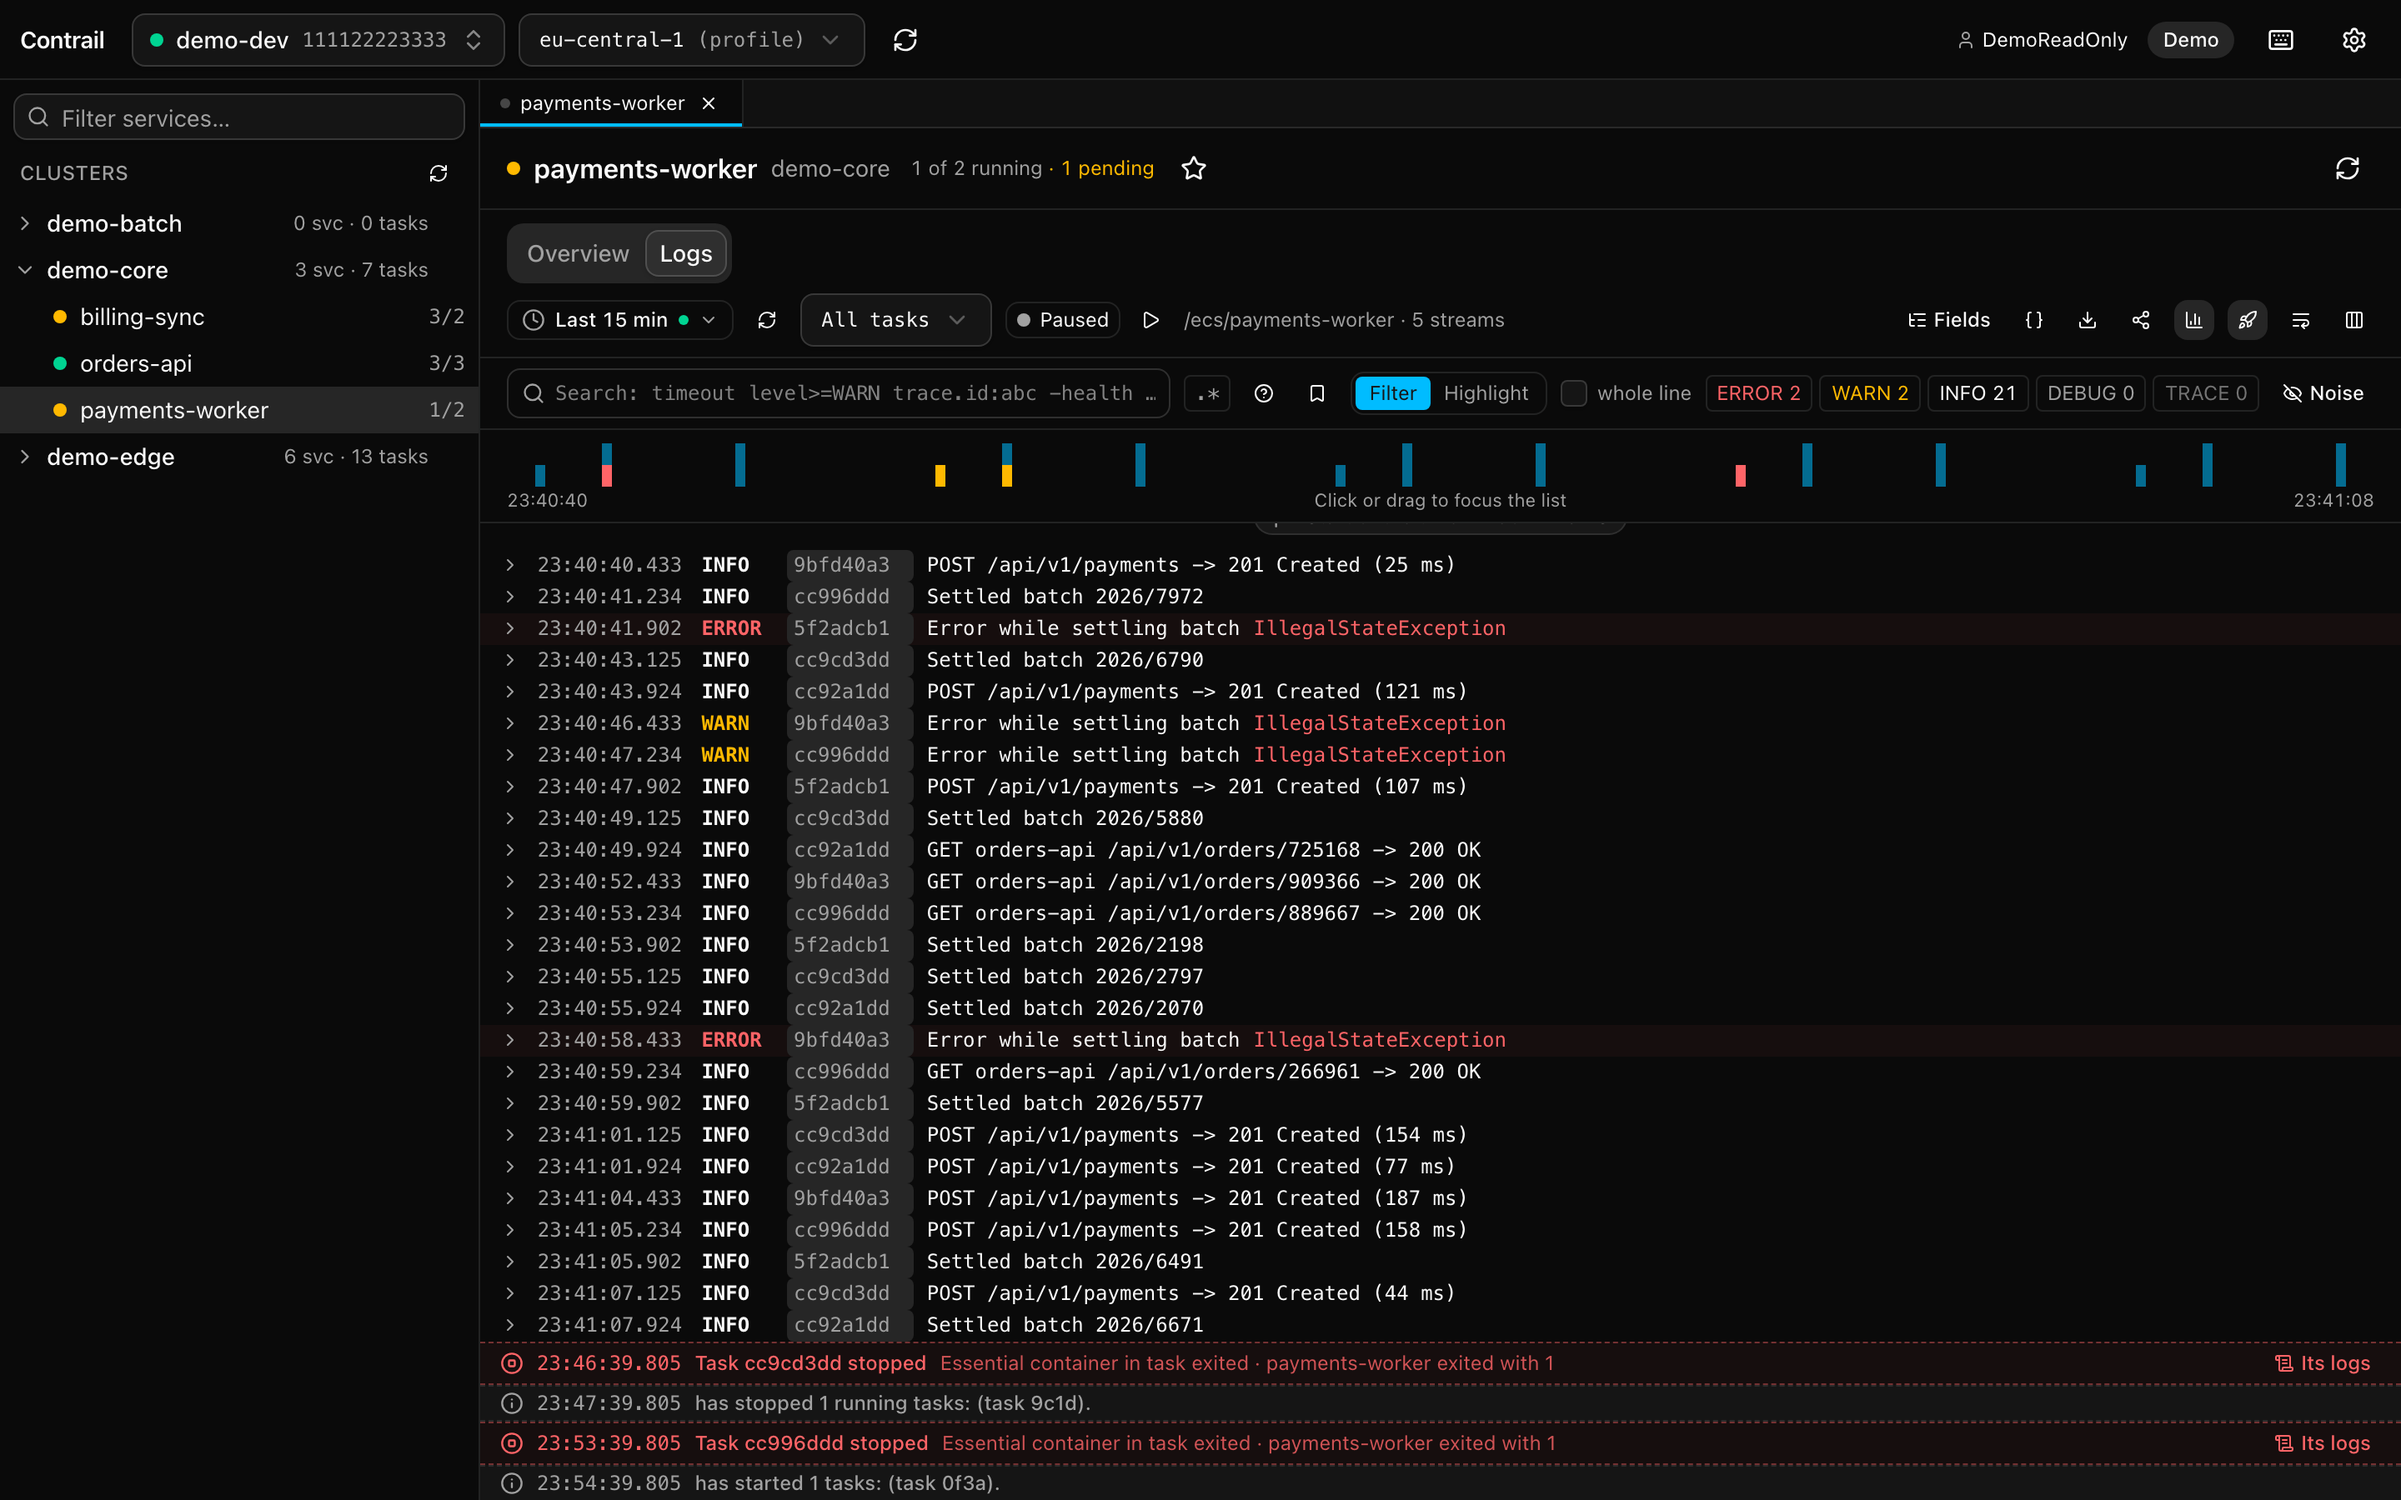
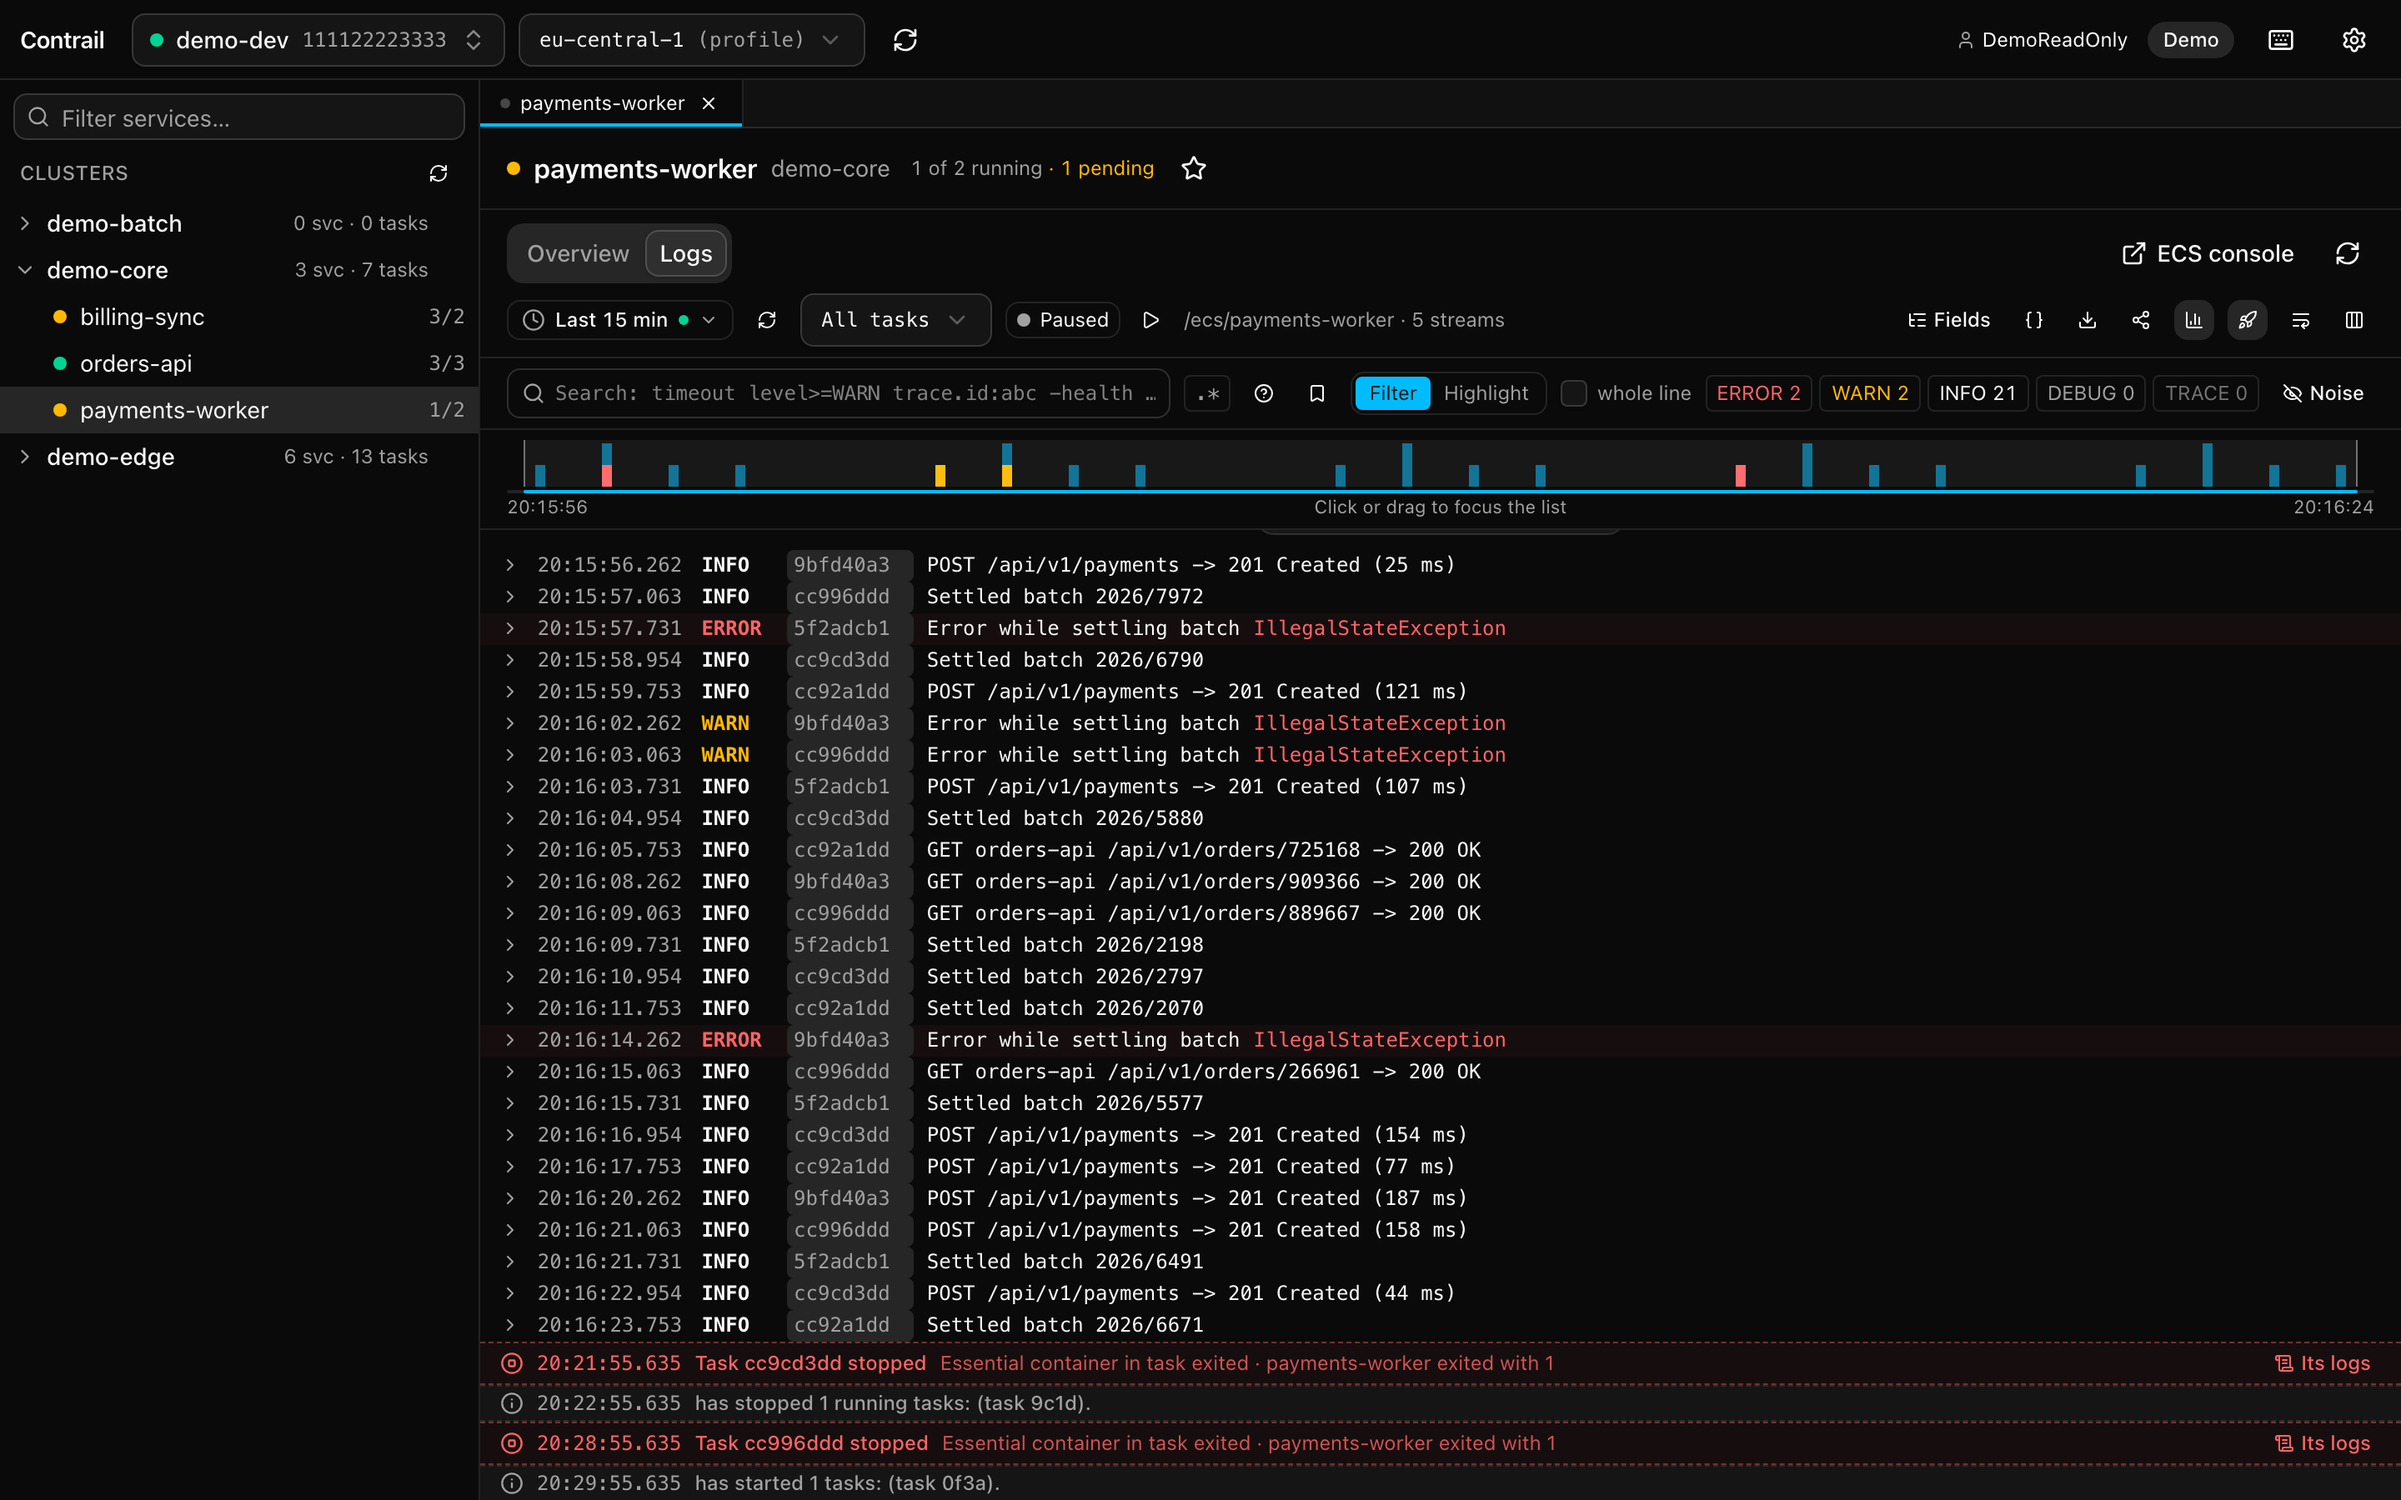
feat(ui): the service's actions beside its tabs
Update service, ECS console and refresh moved from the header to the row
of the Overview and Logs tabs: next to what they act on, and the header
is down to the service's name, cluster, counts and star. Site
screenshots refreshed.

diff --git a/app/ui/src/components/ecs/ServiceView.tsx b/app/ui/src/components/ecs/ServiceView.tsx
@@ -73,10 +73,14 @@ function ServicePane() {
         onValueChange={(value) => setTab(value === "logs" ? "logs" : "overview")}
         className="flex min-h-0 flex-1 flex-col gap-0"
       >
-        <TabsList className="mx-4 mt-2">
-          <TabsTrigger value="overview">Overview</TabsTrigger>
-          <TabsTrigger value="logs">Logs</TabsTrigger>
-        </TabsList>
+        {/* The service's actions sit beside its tabs: they're there on both. */}
+        <div className="mx-4 mt-2 flex flex-wrap items-center gap-2">
+          <TabsList>
+            <TabsTrigger value="overview">Overview</TabsTrigger>
+            <TabsTrigger value="logs">Logs</TabsTrigger>
+          </TabsList>
+          <ServiceActions />
+        </div>
         <TabsContent value="overview" className="min-h-0 overflow-y-auto">
           {detail.state === "error" && (
             <p className="mx-4 mt-3 flex items-start gap-2 rounded-md border border-destructive/40 p-2 text-sm text-destructive">
@@ -106,12 +110,9 @@ function ServicePane() {
 function Header() {
   const selected = useEcs((s) => s.selected);
   const detail = useEcs((s) => s.detail);
-  const refresh = useEcs((s) => s.refreshService);
   const profile = useProfiles((s) => s.selected);
   const favorites = usePrefs((s) => s.prefs.favorites);
   const toggleFavorite = usePrefs((s) => s.toggleFavorite);
-  const allowChanges = usePrefs((s) => s.prefs.settings.allowChanges);
-  const [updating, setUpdating] = useState(false);
   if (!selected || !profile) return null;
 
   const summary = "data" in detail ? detail.data?.summary : undefined;
@@ -142,7 +143,21 @@ function Header() {
       >
         <StarIcon className={pinned ? "fill-amber-400 text-amber-400" : undefined} />
       </Button>
-      <span className="ml-auto" />
+    </header>
+  );
+}
+
+/** Right of the tabs: update (when changes are allowed), the ECS console and refresh. */
+function ServiceActions() {
+  const selected = useEcs((s) => s.selected);
+  const detail = useEcs((s) => s.detail);
+  const refresh = useEcs((s) => s.refreshService);
+  const allowChanges = usePrefs((s) => s.prefs.settings.allowChanges);
+  const [updating, setUpdating] = useState(false);
+  if (!selected) return null;
+
+  return (
+    <div className="ml-auto flex items-center gap-1.5">
       {allowChanges && "data" in detail && detail.data && (
         <>
           <Button
@@ -170,10 +185,11 @@ function Header() {
         variant="ghost"
         size="icon-sm"
         aria-label="Refresh service"
+        tooltip="Reload the service's tasks, deployments and events"
         onClick={() => void refresh()}
       >
         <RefreshCwIcon className={detail.state === "loading" ? "animate-spin" : undefined} />
       </Button>
-    </header>
+    </div>
   );
 }
